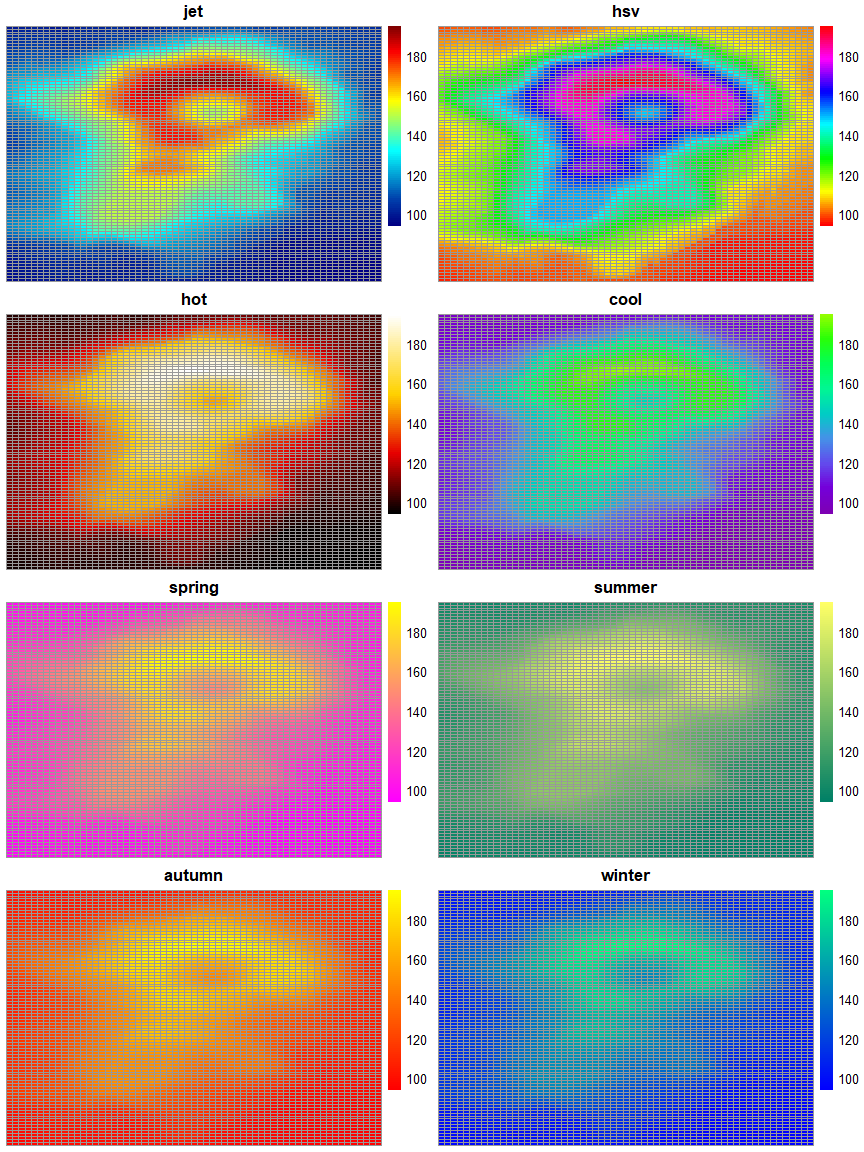
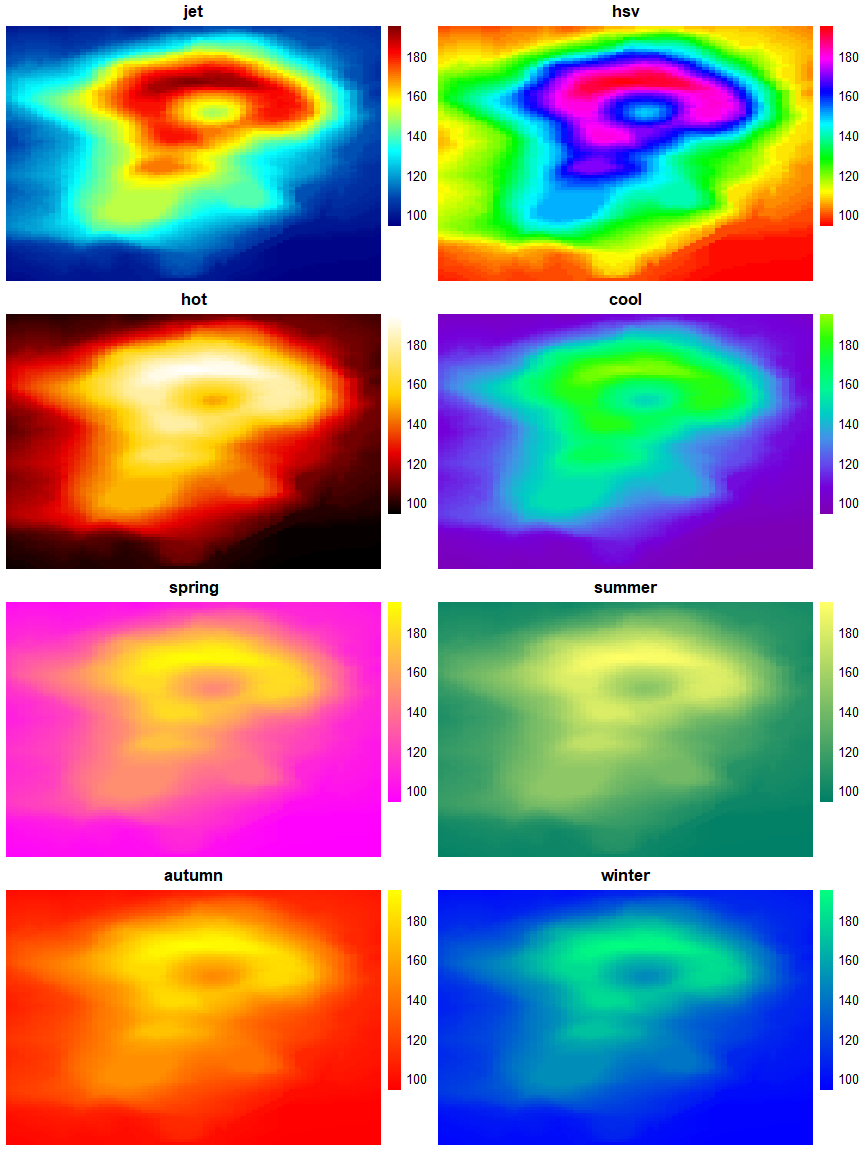
change pheatmap border

diff --git a/source/_posts/combine_pheatmap.md b/source/_posts/combine_pheatmap.md
@@ -1,22 +1,3 @@
----
-title: Combine pheatmap
-author:
-avatar: /images/faceicon.png
-authorLink: 'https://github.com/Landau1994'
-authorAbout: 'https://github.com/Landau1994'
-authorDesc: A PhD student in bioinformatics
-mathjax: true
-categories:
-  - implementation
-tags:
-  - R
-date:
-keywords:
-  description: show how to combine pheatmap and test Rmd
-photos:
----
-
-
 Talk is cheap, this is code:
 
 ``` r
@@ -34,6 +15,7 @@ for (a in items[1:8]){
               main = a,
               height = 3,
               width = 3,
+              border_color = NA,
               color = colormap_pal(colormap = colormaps[[a]])(100),silent = T)
   plot_list[[a]] = x[[4]]     ##to save each plot into a list. note the [[4]]
 }
@@ -41,6 +23,6 @@ for (a in items[1:8]){
 cowplot::plot_grid(plotlist = plot_list[1:8],ncol = 2,nrow = 4)
 ```
 
-<img src="/figure/posts/combine_pheatmap_files/figure-markdown_github/unnamed-chunk-1-1.png" style="display: block; margin: auto;" />
+<img src="combine_pheatmap_files/figure-markdown_github/unnamed-chunk-1-1.png" style="display: block; margin: auto;" />
 
-test equation: $E=mc^2$, math formula need second editing?
+test equation:*E* = *m**c*<sup>2</sup>
